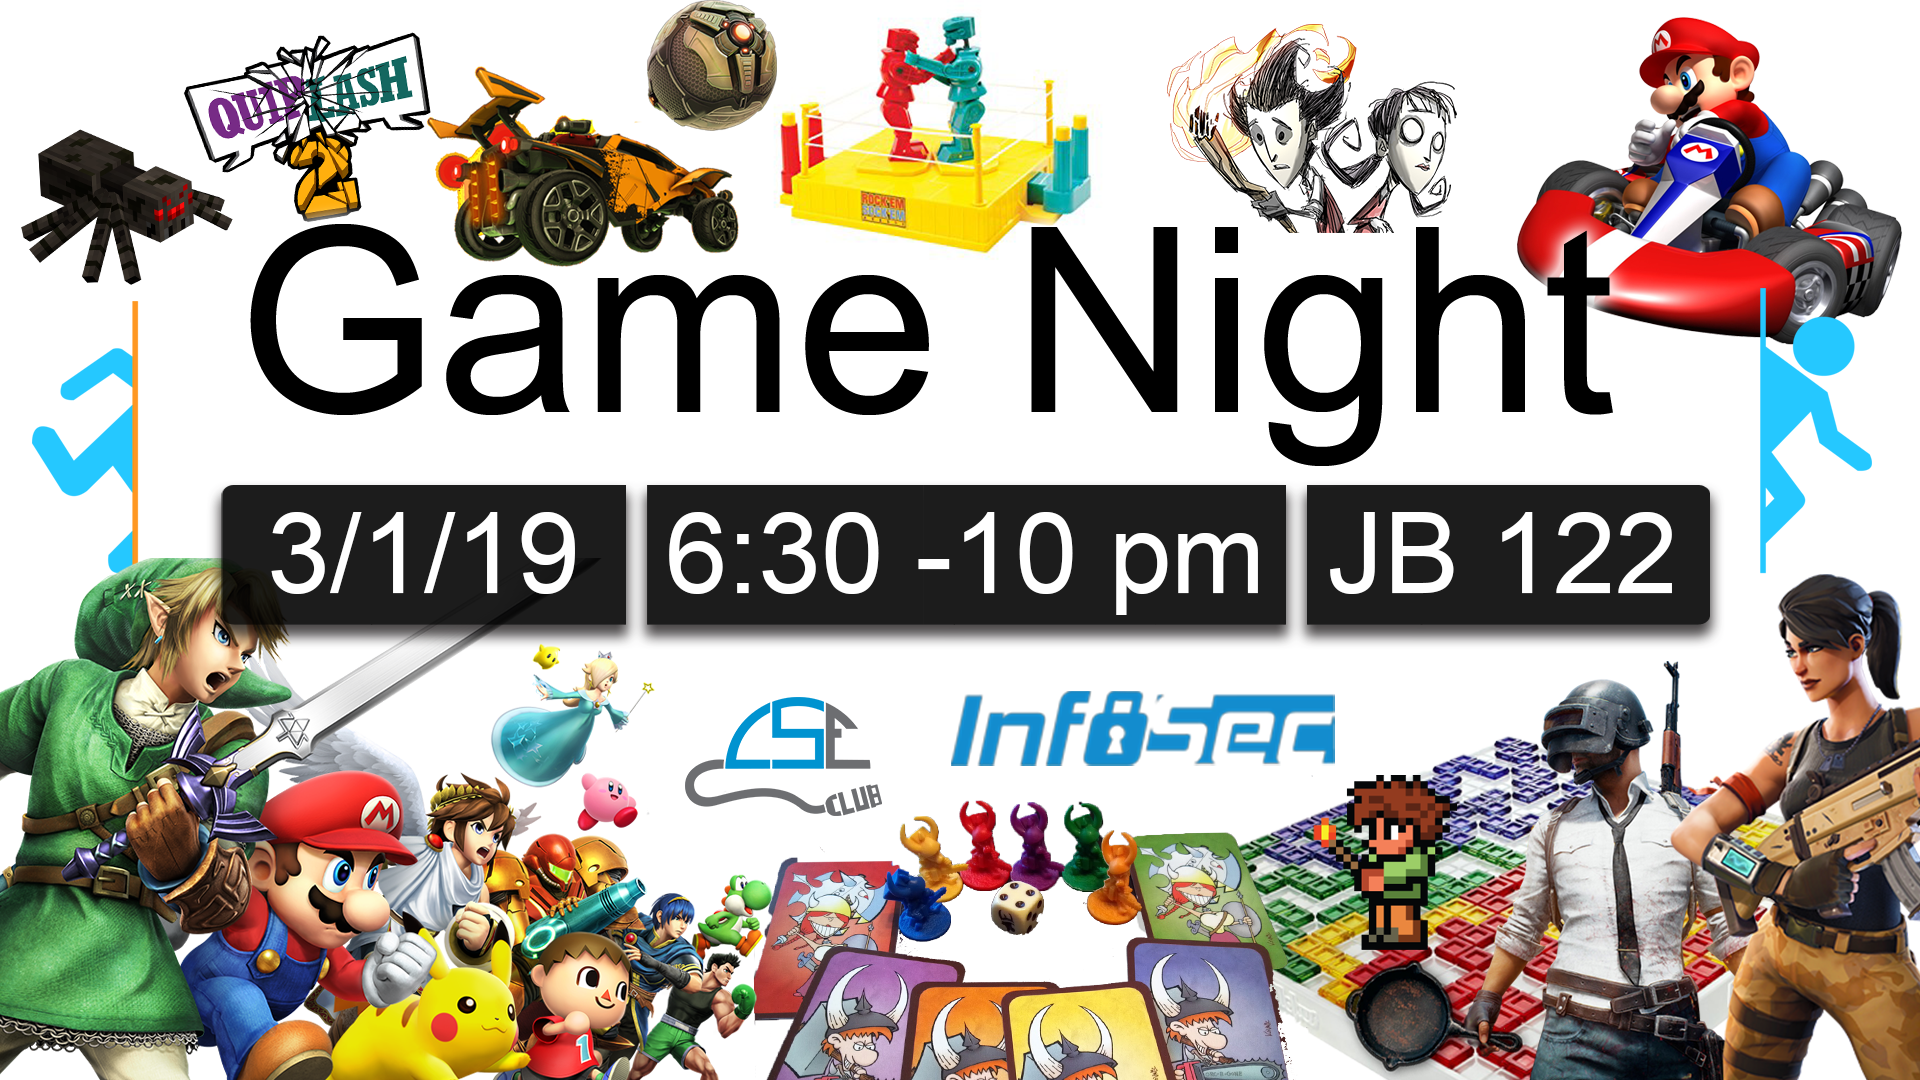
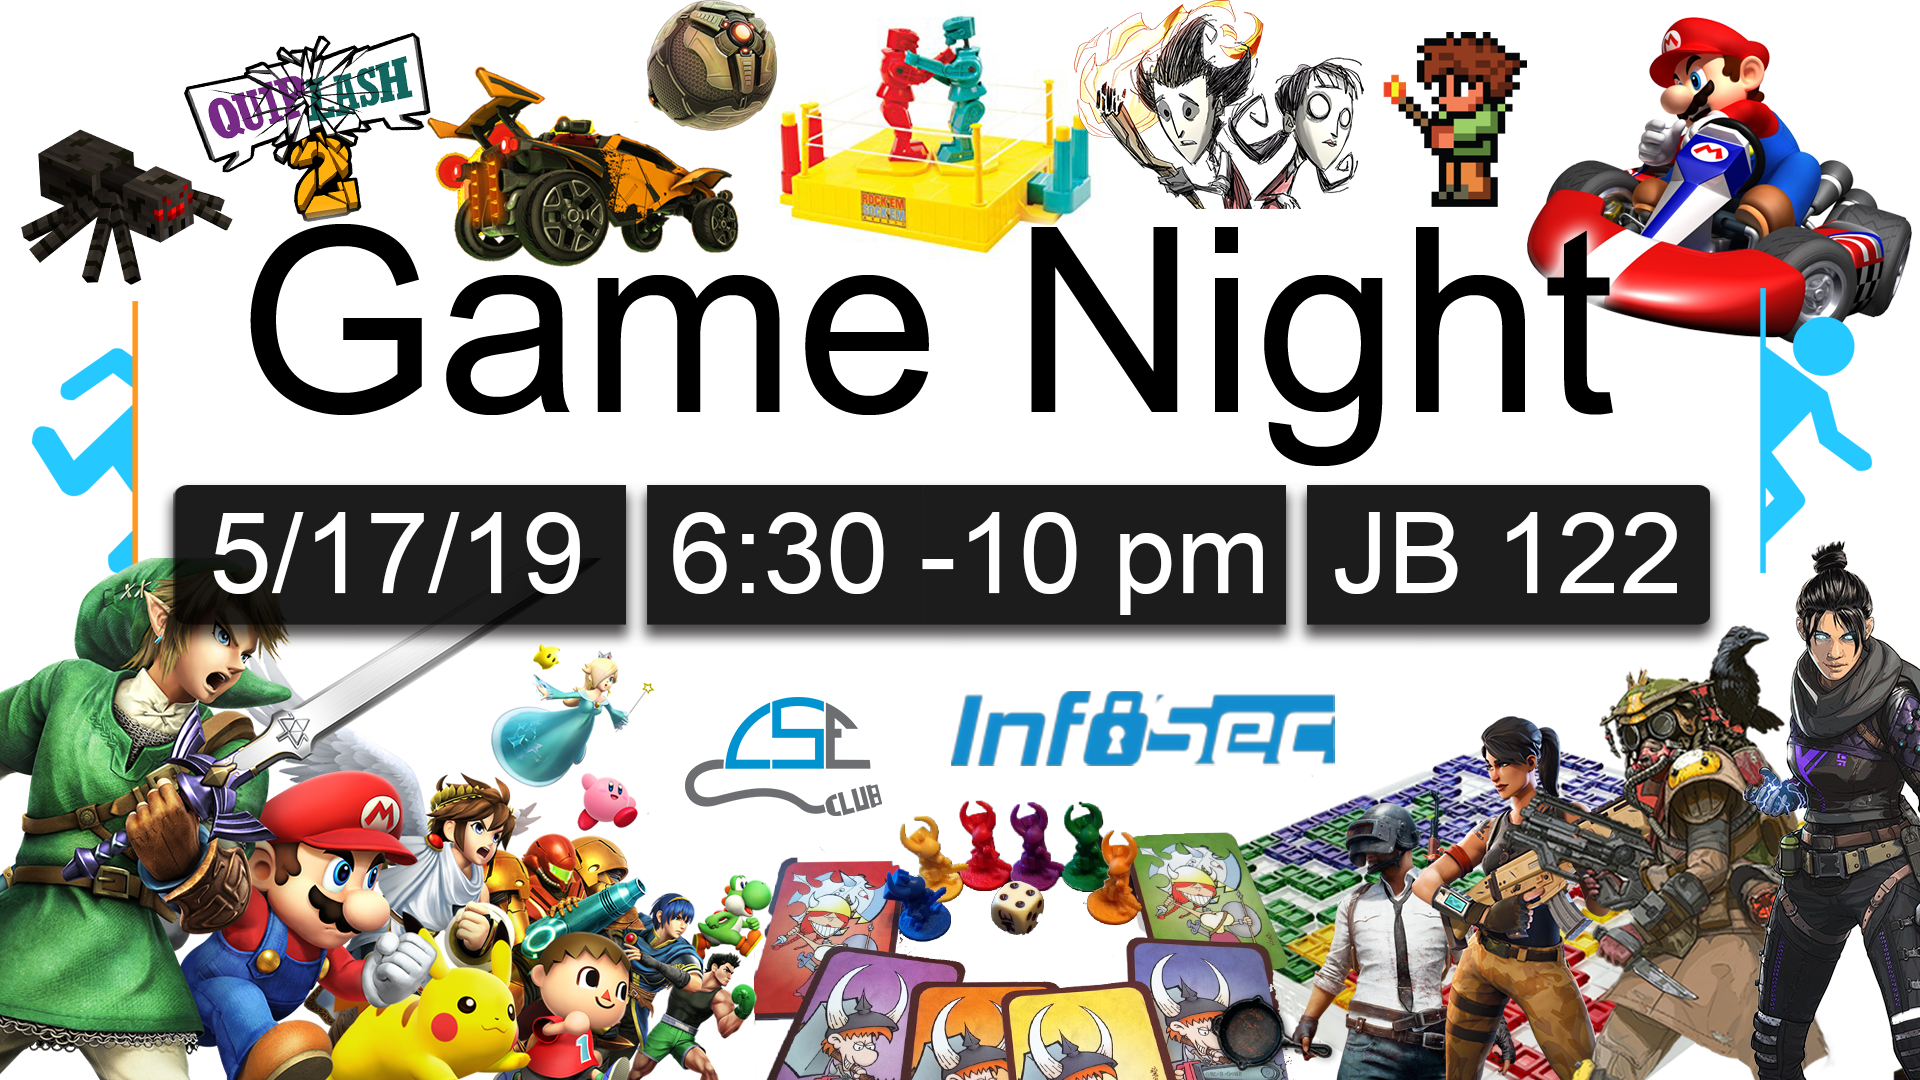
Spring 2019 Update 5
Game night description

diff --git a/gamenight/index.html b/gamenight/index.html
@@ -176,7 +176,7 @@
         <!-- Page Heading/Breadcrumbs -->
         <div class="row">
             <div class="col-lg-12">
-                <h1 class="page-header" style="text-align: center;"><b>Winter 2019 Game Night</b>
+                <h1 class="page-header" style="text-align: center;"><b>Spring 2019 Game Night</b>
                 </h1>
                 
             </div>
@@ -195,9 +195,9 @@
 <div class="col-lg-12">
         <div class="col-md-6">
              <br>
-            <h4> <b>Friday, March 1st, 6:30pm - 10:00pm</b></h4>
+            <h4> <b>Friday, May 17th, 6:30pm - 10:00pm</b></h4>
             <h4><b> Jack Brown Hall, Room JB 122</b></h4>
-            <h4><b> Tickets prices: $5 members with RSVP, $8 non-members with RSVP, $10 at the door.</b></h4>
+            <h4><b> Tickets prices: $10 members, $15 at the door.</b></h4>
             <!-- Portfolio Item Row -->
              <p>Dust off your consoles and board games and come hang out with your InfoSec, SWICS, WIE and CSE Club peeps. There will be food, refreshments, and several game tournaments throughout the night. <br> <br>The first 10 people to bring a Game we don't already have to JB 122 between 6:15pm-6:30 pm will receive a $5 discount on their entry fee.</p>
 
@@ -220,7 +220,7 @@
             }
         }
         // Set the date we're counting down to
-        var countDownDate = new Date("March 1, 2019 18:00:00").getTime();
+        var countDownDate = new Date("May 17, 2019 18:30:00").getTime();
 
         // Update the count down every 1 second
         var x = setInterval(function() {
